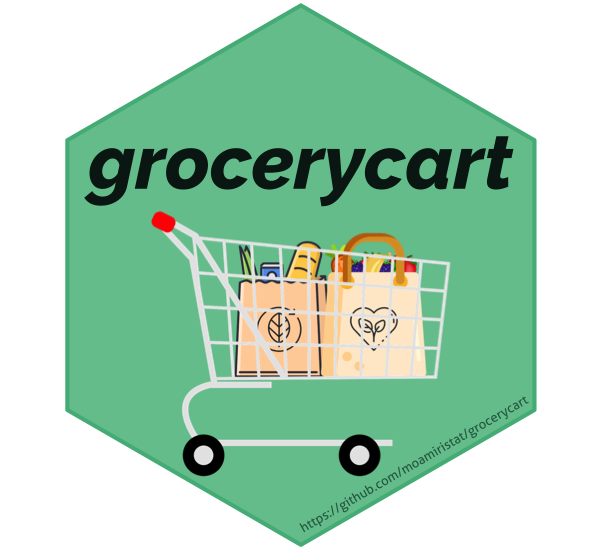
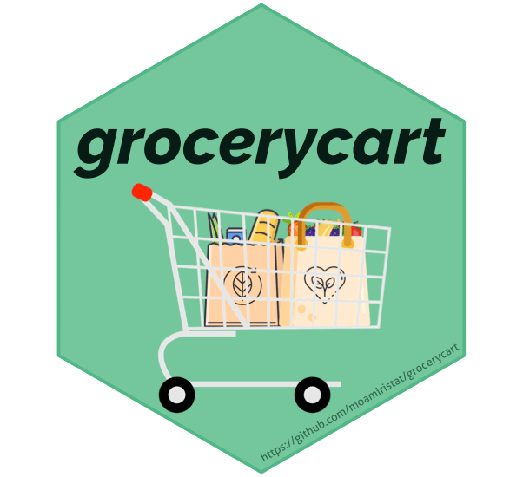
Update image height

diff --git a/README.md b/README.md
@@ -1,2 +1,2 @@
-# grocerycart <img src="grocerycart-hexsticker.png" align="right" height="250px" />
+# grocerycart <img src="grocerycart-hexsticker.png" align="right" height="300px" />
 Collect data from 2 online grocery services
